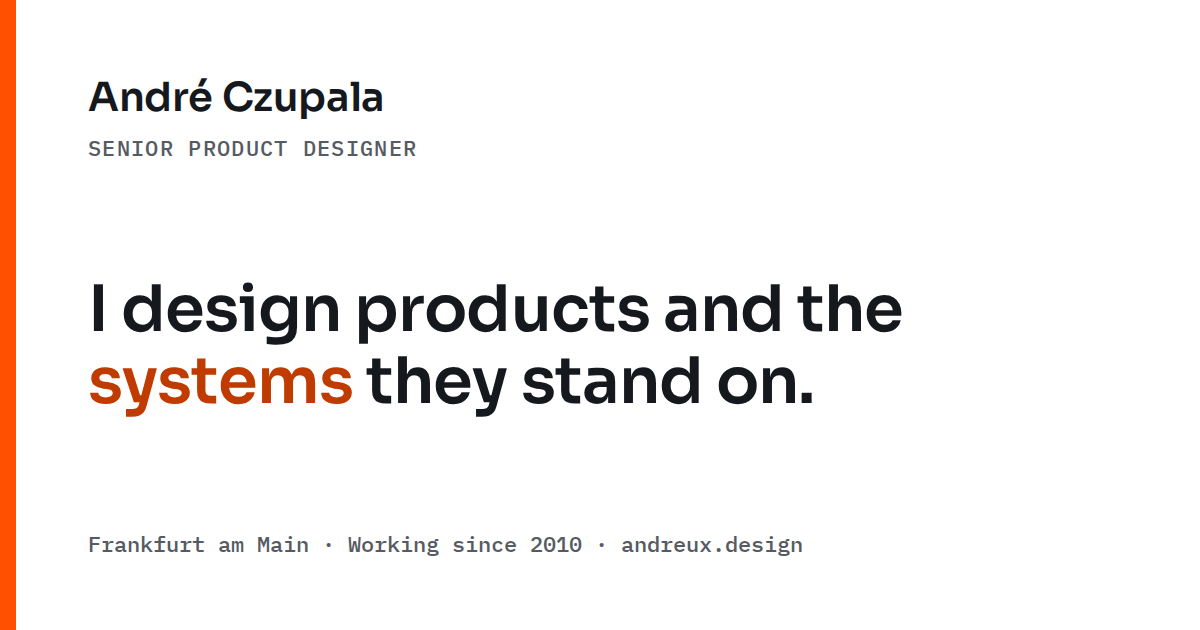
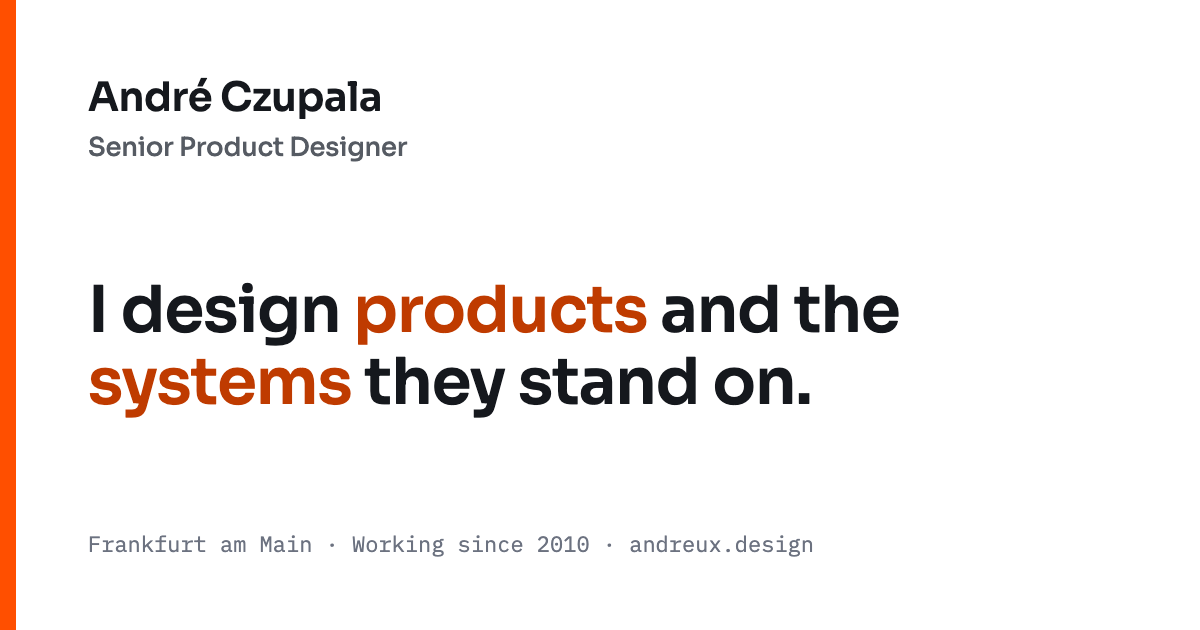
Share-Bilder neu: Produkte hervorgehoben, Rolle als Vorzeile, Schriften aus schriften/ (André, 01.10.); Gate gruen

diff --git a/PROJECT_STATE.md b/PROJECT_STATE.md
@@ -398,6 +398,12 @@ Am Gerät bestätigt (André, 01.10.: „Jetzt grad hüpft nichts mehr").
 **Morgen:** Cloudflare, Bot Fight Mode bzw. JS-Detections, E-Mail-
 Verschleierung und Web-Analytics-Beacon abschalten, dann Lighthouse live
 erneut messen; lokal steht die Seite bei Performance 99.
+**Share-Bilder neu gerendert** (André, 01.10.: „Ist das Share-Pic hell und
+dunkel fähig?" Nein, ein og:image ist eine Datei, kein Thema; die Karten
+der Plattformen sind hell). `bin/share-bild.mjs` nachgezogen: „Produkte"
+bzw. „products" hervorgehoben wie auf der Seite, Rolle als Vorzeile in
+Sora 500 statt Mono-Versalien, Schriften aus `schriften/` als Daten-URI
+statt von Google. share.png und share.en.png neu, am Bild geprüft.
 
 **Typo- und Raumskala dramatisiert, auf `main`** (André, 30.09. abends,
 „Let's go" nach zwei Prüfungen, siehe Entschieden). Tokenpaket auf
